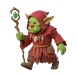
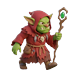
fix: 주술사 걷기/공격2 좌우 반전 오류 수정 (공격1만 반전)

diff --git a/scripts/fit-sprites.py b/scripts/fit-sprites.py
@@ -25,7 +25,7 @@ FOOT = 0.90
 # 적: (원본 접두어, 결과 접두어, 걷기1 몸 높이(2배 해상도), 왼쪽을 보는지, 컷 이름들)
 ENEMIES = [
     ('orc', 'e_orc', 70, {'atk1'}, ['walk1', 'walk2', 'atk1', 'atk2']),
-    ('shaman', 'e_shaman', 64, True, ['walk1', 'walk2', 'atk1', 'atk2']),
+    ('shaman', 'e_shaman', 64, {'atk1'}, ['walk1', 'walk2', 'atk1', 'atk2']),
     ('wraith', 'e_wraith', 64, False, ['walk1', 'walk2', 'atk1', 'atk2']),
     ('golem', 'e_golem', 104, False, ['walk1', 'walk2', 'atk1', 'atk2']),
     ('ogre', 'e_ogre', 120, False, ['walk1', 'walk2', 'atk1', 'atk2']),
